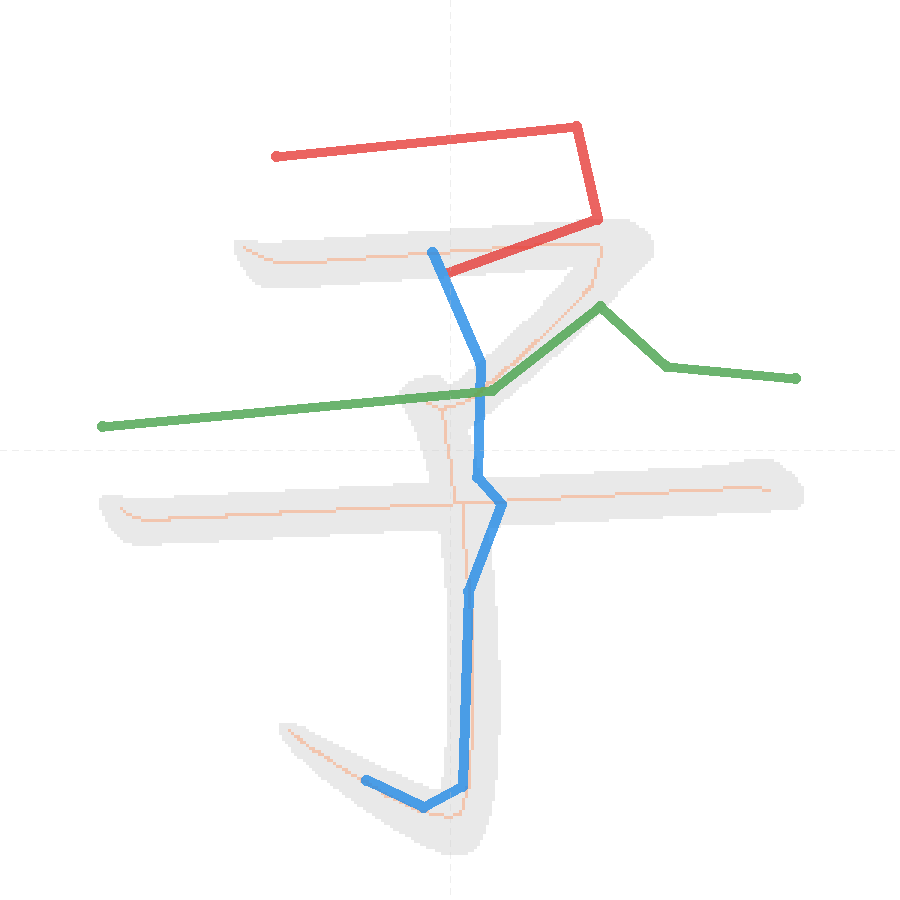
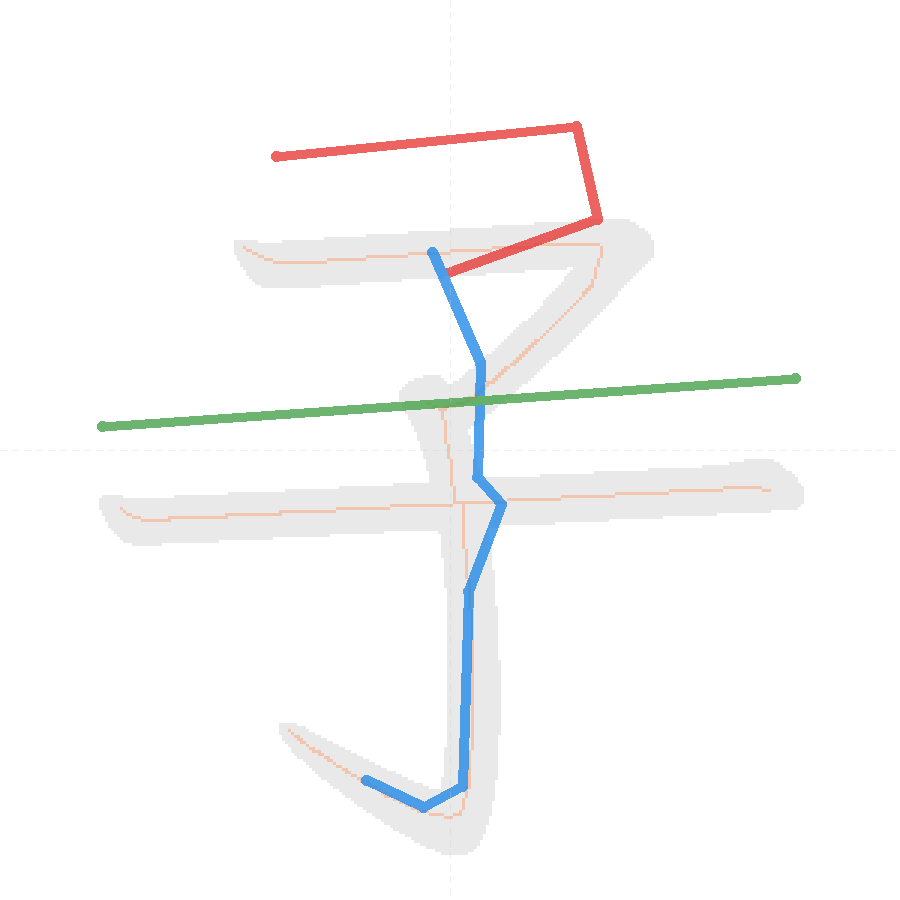
純横棒/縦棒の強制直線化（step 6c）+ 影響字再生成
㇐/㇑タイプで3点以上残る場合、始点-終点方向がH/Vに近ければ
2点直線に強制変換。密集文字（手など）で隣接ストロークの
骨格ピクセルを拾ってジグザグになるケースを救済。

Changed region(s): [[0.2489, 0.3422, 0.8711, 0.4667], [0.5911, 0.3733, 0.6222, 0.4044]]

diff --git a/auto_strokes.py b/auto_strokes.py
@@ -1812,6 +1812,21 @@ def generate_strokes(kanji: str, debug=False) -> dict:
                         simplified = list(seg1_straight) + list(seg2_straight[1:])
                     else:
                         simplified = list(seg1_straight) + list(seg2_straight)
+        # 6c. 純横棒/純縦棒の強制直線化
+        # ㇐/㇑タイプで3点以上残る場合、始点-終点の直線に強制変換
+        # （密集文字で間違った分岐を通るケースの救済）
+        if len(simplified) > 2:
+            pure_type = kvg.get('type', '').rstrip('a')
+            if pure_type in ('㇐', '㇑'):
+                ax, ay = simplified[0]
+                bx, by = simplified[-1]
+                dx, dy = abs(bx - ax), abs(by - ay)
+                total = (dx * dx + dy * dy) ** 0.5
+                if total > 20:
+                    angle_ratio = min(dx, dy) / max(dx, dy) if max(dx, dy) > 0 else 0
+                    # 始点-終点の方向がH/Vに近い場合のみ強制直線化
+                    if angle_ratio < 0.4:
+                        simplified = [simplified[0], simplified[-1]]
         # 7. 最終クリッピング（RDP後のポイントもアウトライン内に）
         simplified = clip_to_outline(simplified, bmp)
         print(f"    経路: {len(path_pixels)}px → {len(simplified)}点")
